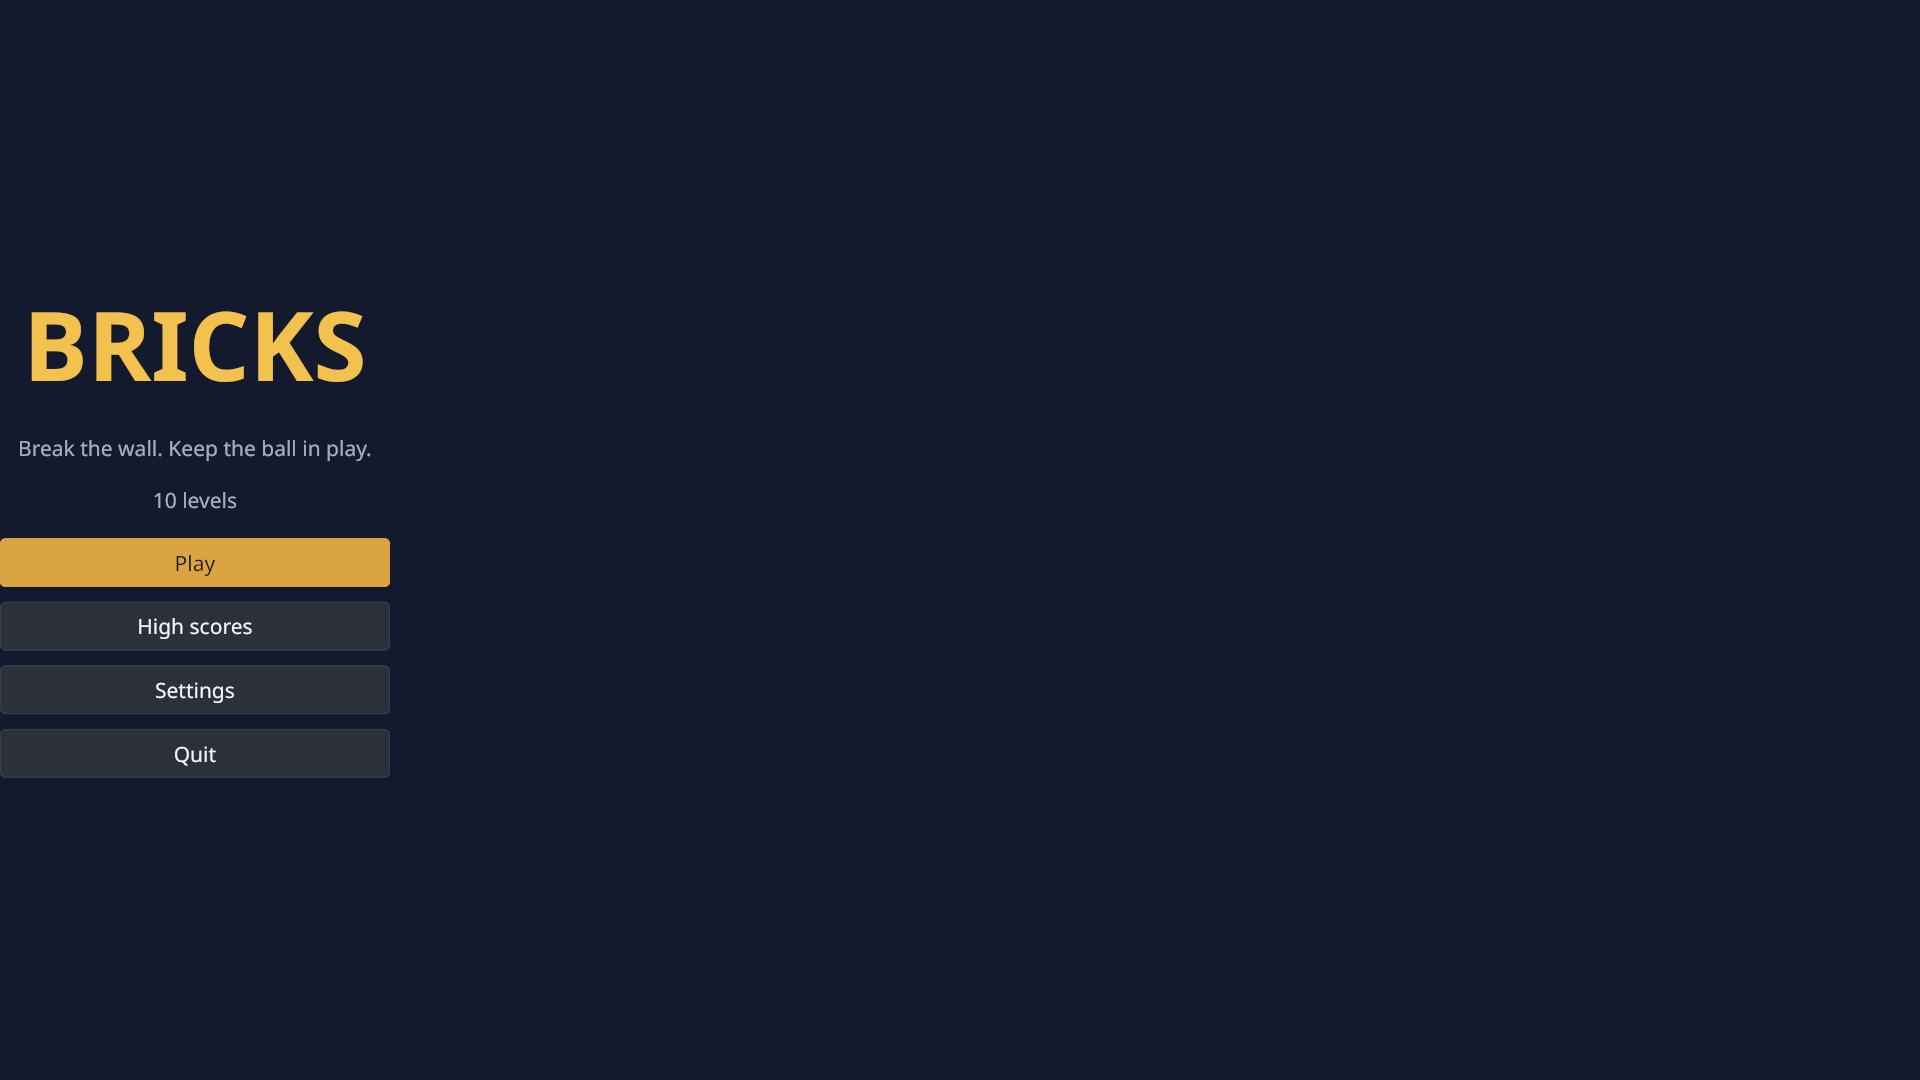
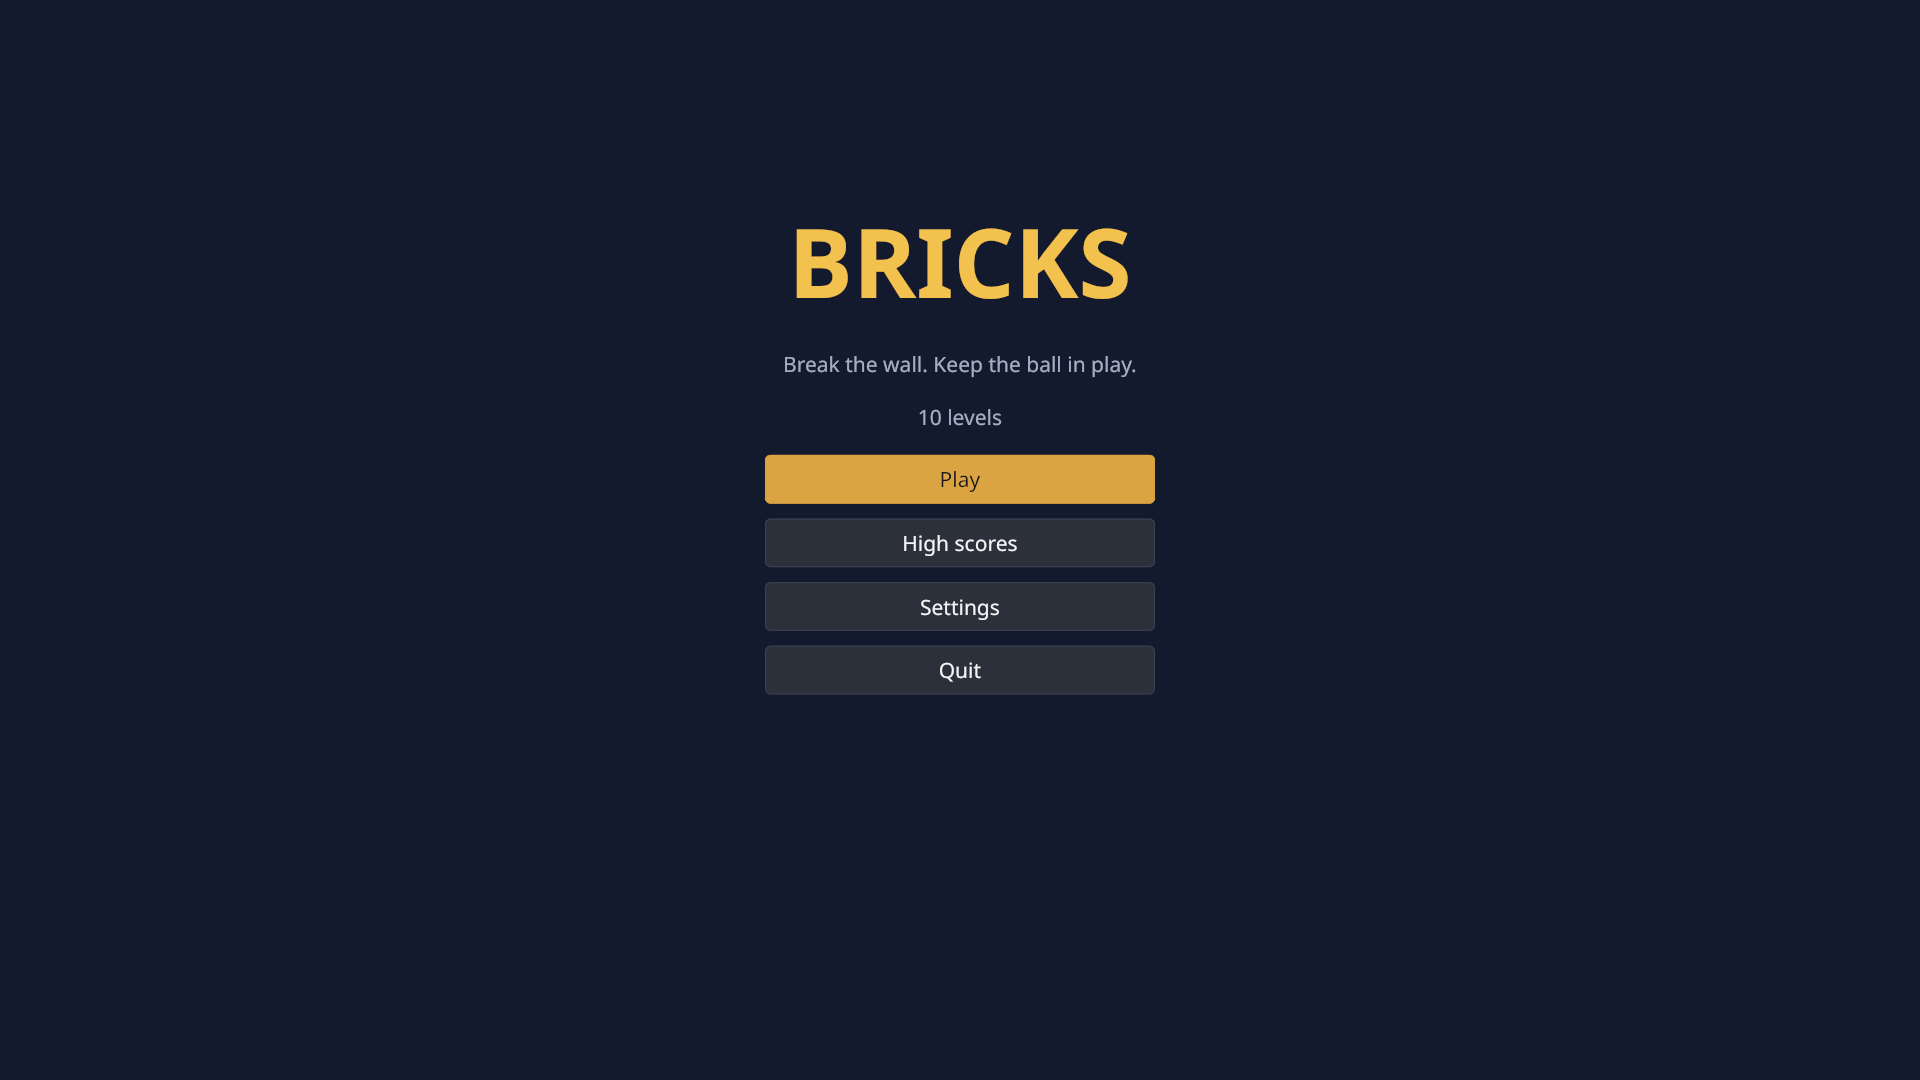
bricks: title page is a column, so the menu is centred and does not move with the Quit button; refs rebaselined

diff --git a/samples/bricks/Views/Screens.cs b/samples/bricks/Views/Screens.cs
@@ -13,7 +13,7 @@ internal static class Screens
     private static Element Page(Session s, Element content, Length? top = null) =>
         s.Kit.AttachTo(Ui.Box(content)
             .Class("screen")
-            .Style(st => st.Position(PositionMode.Absolute).Inset(0).JustifyContent(top is null ? Align.Center : Align.Start).AlignItems(Align.Center).Padding(top ?? Length.Ui(0), Length.Ui(0))));
+            .Style(st => st.Position(PositionMode.Absolute).Inset(0).Direction(FlexDirection.Column).JustifyContent(top is null ? Align.Center : Align.Start).AlignItems(Align.Center).Padding(top ?? Length.Ui(0), Length.Ui(0))));
 
     // ---- title -------------------------------------------------------------------------------------------------------
 
